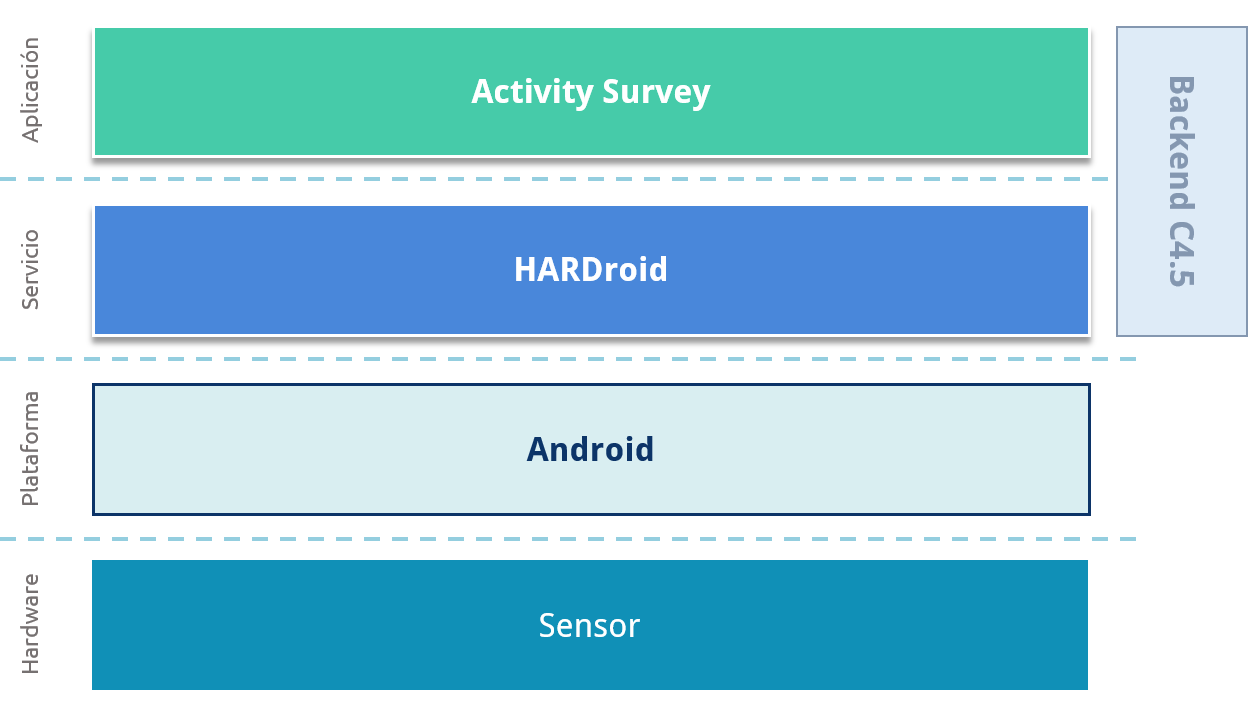
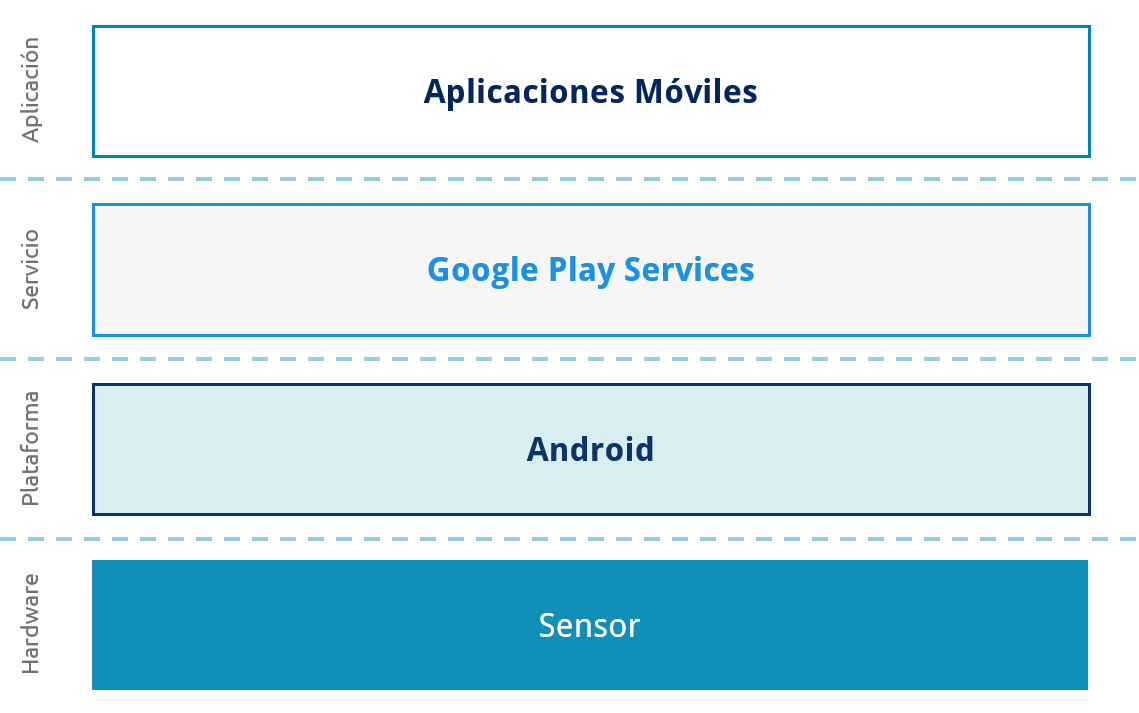
Slide final de HARDroid y proceso colaborativo

diff --git a/slides/propuesta/hardroid-1.tex b/slides/propuesta/hardroid-1.tex
@@ -1,6 +1,6 @@
 
 \section{HAR en Android}
-\begin{frame}{Proyecto HARDroid}
+\begin{frame}{HARDroid}
 
 \framesubtitle{HAR en Android}
 
@@ -35,12 +35,47 @@
 \end{itemize}
 
 \column{0.6\textwidth}
+\begin{overprint}
+\onslide<1> 
 \begin{center}
-\includegraphics[width=1\columnwidth]{propuesta/graphics/arch_har_stack}
+\includegraphics[width=1\columnwidth]{propuesta/graphics/hardroid_stack1}
+\par\end{center}
+\onslide<2> 
+\begin{center}
+\includegraphics[width=1\columnwidth]{propuesta/graphics/hardroid_stack2}
+\par\end{center}
+\onslide<3> 
+\begin{center}
+\includegraphics[width=1\columnwidth]{propuesta/graphics/hardroid_stack3}
 \par\end{center}
 
+\end{overprint}
 \end{columns}
 
 \end{frame}
 %
+\begin{frame}{HARDroid Colaborativo}
+
+\framesubtitle{HAR en Android}
+\begin{center}
+\begin{figure}
+\begin{centering}
+\caption{Proceso colaborativo de mejora continua}
+\par\end{centering}
+\begin{overprint}
+\onslide<1> 
+\begin{centering}
+\includegraphics[width=1\columnwidth]{propuesta/graphics/hardroid_colab1}
+\par\end{centering}
+\onslide<2> 
+\begin{centering}
+\includegraphics[width=1\columnwidth]{propuesta/graphics/hardroid_colab2}
+\par\end{centering}
+\centering{}\emph{Disponible en} \structure{\begin{center}
+Google Play Store
+\par\end{center}}
+\end{overprint}
+\end{figure}
+\par\end{center}
+\end{frame}
 
